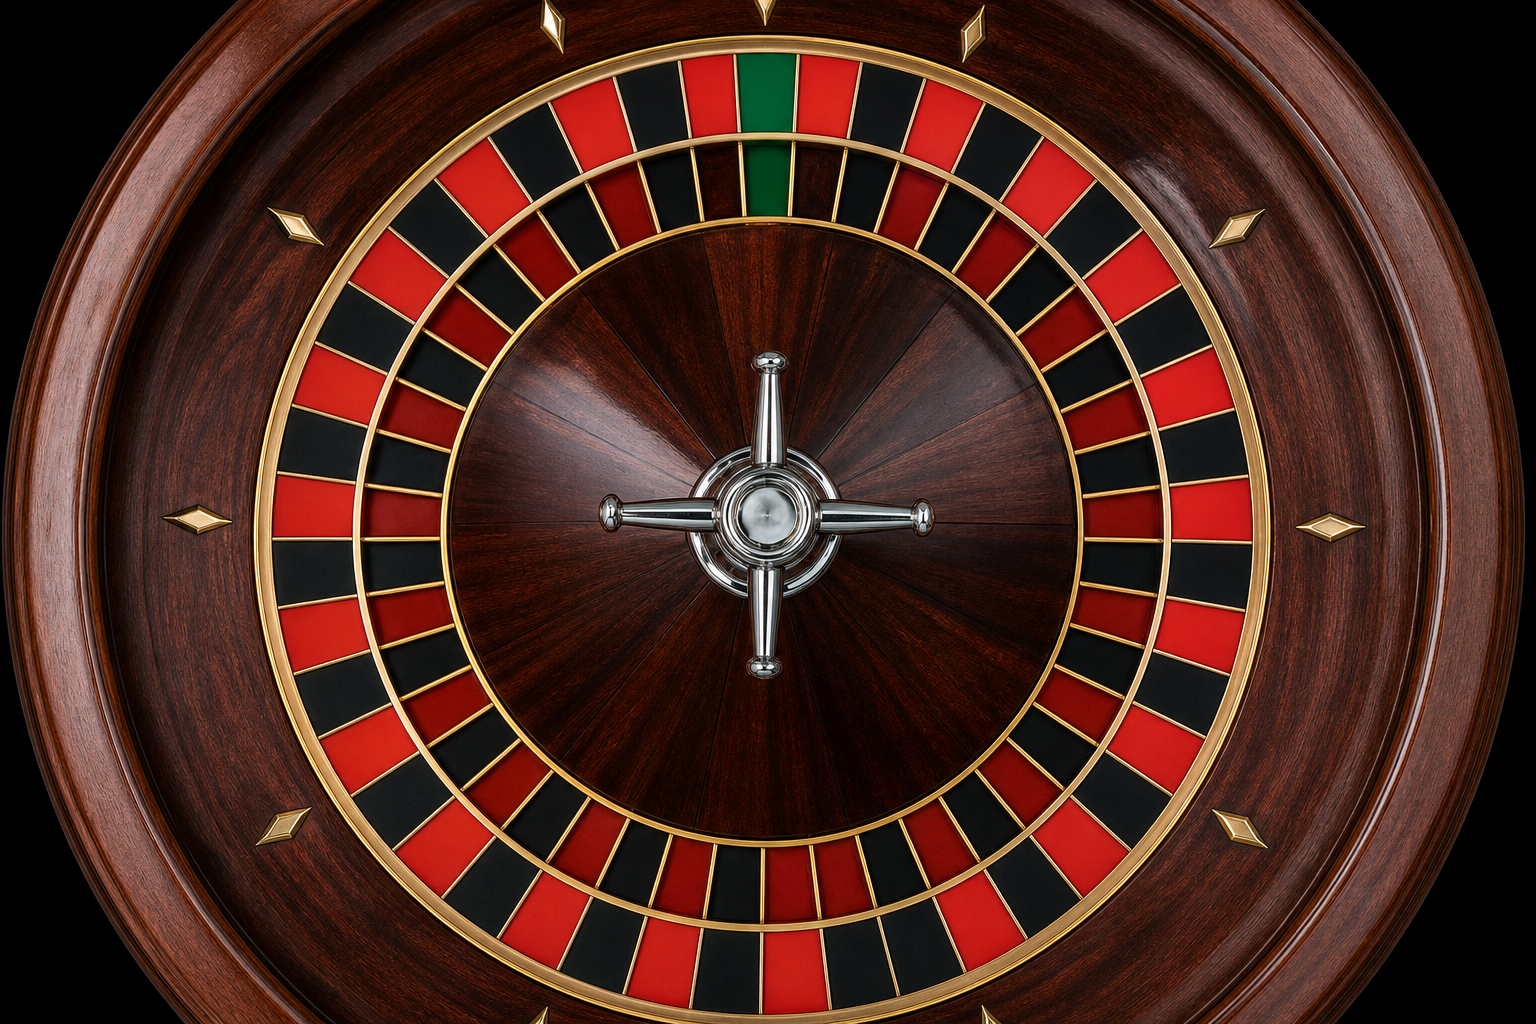
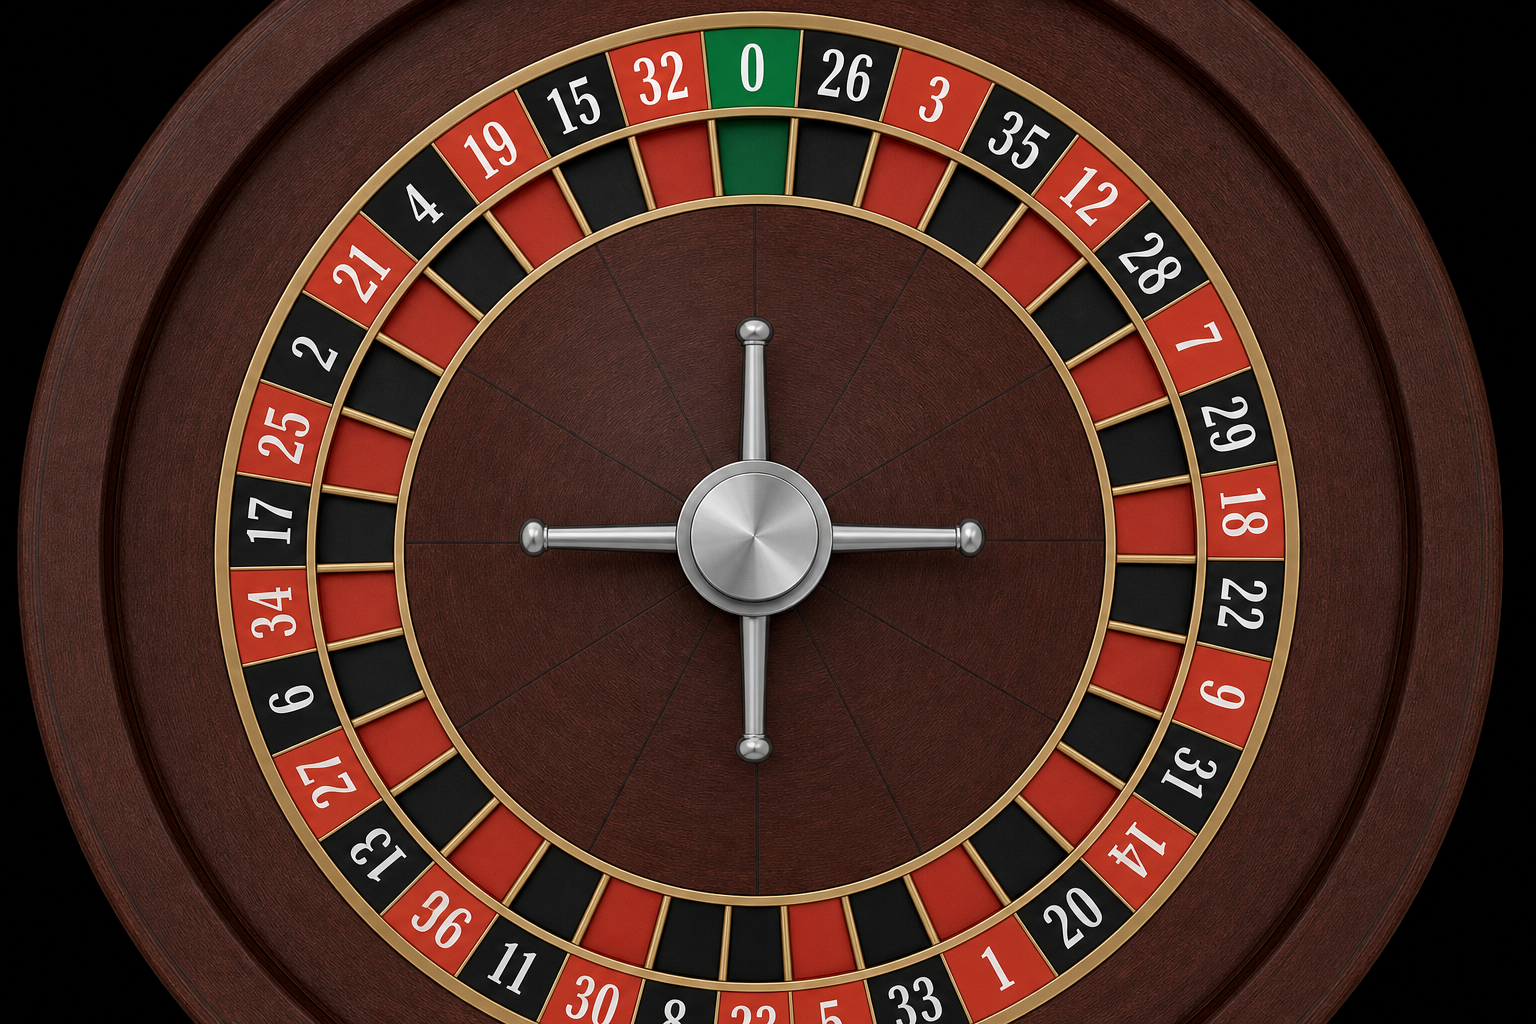
Matte roulette wheel, white arc flush to wheel edge

diff --git a/src/features/chat/ChatBubble.jsx b/src/features/chat/ChatBubble.jsx
@@ -936,8 +936,10 @@ function PinIcon({ filled = false }) {
 // ── Circular upload-progress ring ─────────────────────────────────────────
 
 // SVG uses a 1:1 coordinate space (no viewBox scaling) for simplicity.
-const RING_R  = 39          // SVG circle radius (px)
-const RING_C  = 2 * Math.PI * RING_R  // circumference ≈ 245.0
+// RING_R is tuned so the arc's inner edge sits ~1 px outside the wheel image edge.
+// Wheel: 65 px → radius 32.5 px. Inner edge = RING_R − strokeWidth/2 = 33.5 → RING_R = 36.
+const RING_R  = 36          // SVG circle radius (px)
+const RING_C  = 2 * Math.PI * RING_R  // circumference ≈ 226.2
 
 /**
  * Centered scrim + circular progress ring shown over a video tile while the
@@ -954,19 +956,19 @@ function VideoUploadRing({ progress }) {
         {/* Progress ring — 1:1 SVG, rotated so arc starts at 12 o'clock */}
         <svg width="100" height="100" viewBox="0 0 100 100" className="absolute inset-0 -rotate-90" aria-hidden>
           {/* Track */}
-          <circle cx="50" cy="50" r={RING_R} fill="none" stroke="rgba(255,255,255,0.15)" strokeWidth="5.5" />
-          {/* Progress arc — black with a white glow so it reads on the dark scrim */}
+          <circle cx="50" cy="50" r={RING_R} fill="none" stroke="rgba(255,255,255,0.18)" strokeWidth="5" />
+          {/* Progress arc — white */}
           <circle
             cx="50" cy="50" r={RING_R}
             fill="none"
-            stroke="#000000"
-            strokeWidth="5.5"
+            stroke="#ffffff"
+            strokeWidth="5"
             strokeLinecap="round"
             strokeDasharray={RING_C}
             strokeDashoffset={offset}
             style={{
               transition: 'stroke-dashoffset 0.35s ease',
-              filter: 'drop-shadow(0 0 5px rgba(255,255,255,0.85)) drop-shadow(0 0 2px rgba(255,255,255,1))',
+              filter: 'drop-shadow(0 0 4px rgba(255,255,255,0.6))',
             }}
           />
         </svg>